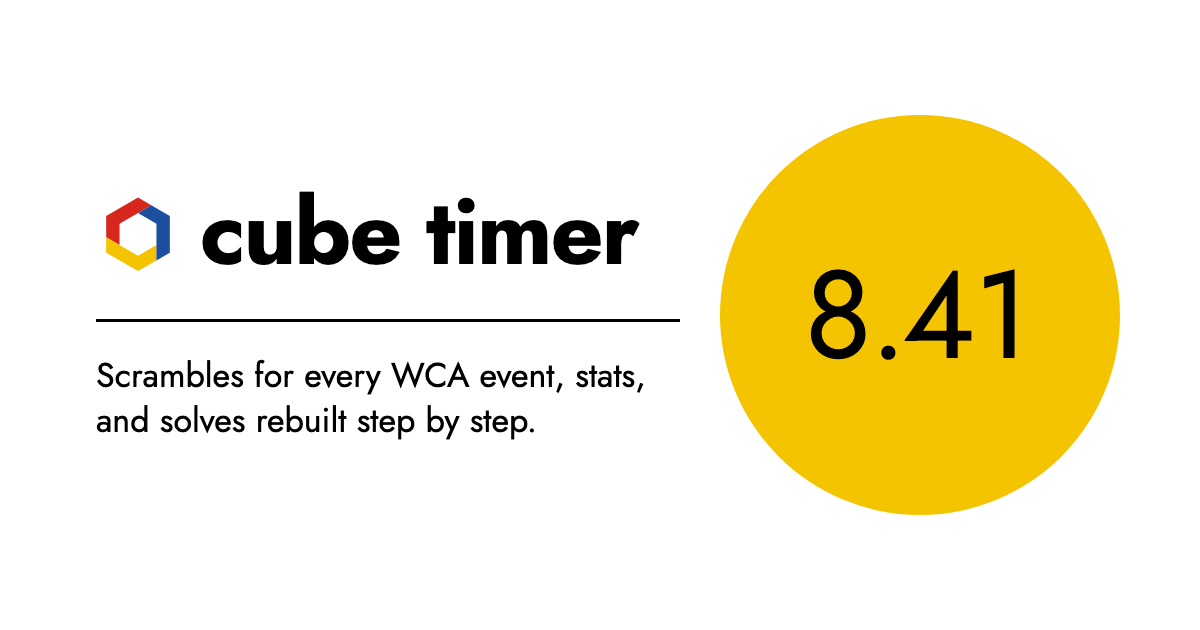
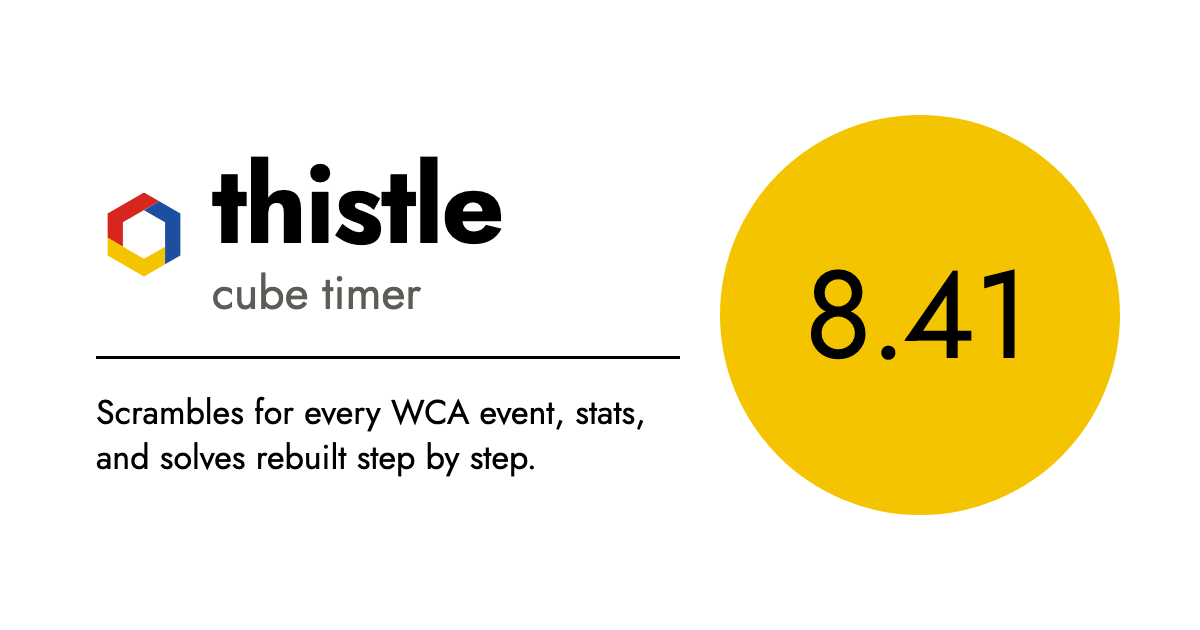
Name the app thistle
After Morwen Thistlethwaite, whose 1981 algorithm first showed any 3x3 position can be
solved in at most 52 moves. "cube timer" stays beside it as a muted subtitle in the header,
page title, share card and link preview. Storage keys are unchanged so saved solves stay.

Changed region(s): [[0.0617, 0.5429, 0.555, 0.754], [0.0925, 0.2413, 0.555, 0.4524], [0.0925, 0.4524, 0.555, 0.5127]]

diff --git a/index.html b/index.html
@@ -10,16 +10,16 @@
       href="https://fonts.googleapis.com/css2?family=Jost:wght@300..800&display=swap"
       rel="stylesheet"
     />
-    <title>cube timer</title>
-    <meta name="description" content="A speedcubing timer that runs in your browser: scrambles for every WCA event, stats, and solves rebuilt step by step." />
+    <title>thistle, a cube timer</title>
+    <meta name="description" content="thistle is a speedcubing timer that runs in your browser: scrambles for every WCA event, stats, and solves rebuilt step by step." />
     <meta property="og:type" content="website" />
     <meta property="og:url" content="https://cube-timer.chong-m2007.workers.dev/" />
-    <meta property="og:title" content="cube timer" />
+    <meta property="og:title" content="thistle, a cube timer" />
     <meta property="og:description" content="Scrambles for every WCA event, stats, and solves rebuilt step by step." />
     <meta property="og:image" content="https://cube-timer.chong-m2007.workers.dev/og.png" />
     <meta property="og:image:width" content="1200" />
     <meta property="og:image:height" content="630" />
-    <meta property="og:image:alt" content="The cube timer logo beside a yellow timer circle reading 8.41." />
+    <meta property="og:image:alt" content="The thistle logo beside a yellow timer circle reading 8.41." />
     <meta name="twitter:card" content="summary_large_image" />
   </head>
   <body>

diff --git a/src/components/SettingsView.tsx b/src/components/SettingsView.tsx
@@ -54,7 +54,7 @@ export function SettingsView() {
     const blob = new Blob([JSON.stringify(state, null, 2)], { type: 'application/json' })
     const a = document.createElement('a')
     a.href = URL.createObjectURL(blob)
-    a.download = `cube-timer-${new Date().toISOString().slice(0, 10)}.json`
+    a.download = `thistle-${new Date().toISOString().slice(0, 10)}.json`
     a.click()
     URL.revokeObjectURL(a.href)
   }
@@ -67,7 +67,7 @@ export function SettingsView() {
       const count = parsed.sessions.reduce((n, x) => n + x.solves.length, 0)
       setImportMessage(`Imported ${parsed.sessions.length} sessions and ${count} solves.`)
     } catch {
-      setImportMessage('That file is not a cube timer export. Choose a .json file made with Export.')
+      setImportMessage('That file is not a thistle export. Choose a .json file made with Export.')
     }
   }
 

diff --git a/src/lib/shareCard.ts b/src/lib/shareCard.ts
@@ -93,7 +93,11 @@ export async function drawCard(data: CardData): Promise<HTMLCanvasElement> {
   ctx.fillStyle = C.ink
   ctx.font = font(600, 34)
   ctx.textAlign = 'left'
-  ctx.fillText('cube timer', PAD + 62, y0 - 1)
+  ctx.fillText('thistle', PAD + 62, y0 - 1)
+  const nameWidth = ctx.measureText('thistle ').width
+  ctx.font = font(400, 34)
+  ctx.fillStyle = C.muted
+  ctx.fillText('cube timer', PAD + 62 + nameWidth, y0 - 1)
   ctx.textAlign = 'right'
   ctx.font = font(400, 30)
   ctx.fillStyle = C.muted
@@ -216,6 +220,6 @@ export function cardText(d: CardData): string {
 
   lines.push('', d.scramble)
   if (d.recon) lines.push('', ...d.recon.lines, d.recon.summary)
-  lines.push('', 'timed with cube timer')
+  lines.push('', 'timed with thistle')
   return lines.join('\n')
 }

diff --git a/src/App.tsx b/src/App.tsx
@@ -36,9 +36,11 @@ function Shell() {
         Skip to content
       </a>
       <header className="topbar chrome">
-        <span className="wordmark" aria-label="cube timer">
+        <span className="wordmark" aria-label="thistle, cube timer">
           <Logo />
-          <span className="wordmark-text">cube timer</span>
+          <span className="wordmark-text">
+            thistle <span className="wordmark-sub">cube timer</span>
+          </span>
         </span>
         <StreakMark />
         <nav className="views" aria-label="Main">

diff --git a/src/index.css b/src/index.css
@@ -242,6 +242,12 @@ kbd {
   letter-spacing: -0.01em;
 }
 
+.wordmark-sub {
+  margin-left: 0.3em;
+  color: var(--muted);
+  font-weight: 400;
+}
+
 .logo {
   display: inline-flex;
   gap: 3px;

diff --git a/DESIGN.md b/DESIGN.md
@@ -1,6 +1,6 @@
 # Design
 
-cube timer follows the Bauhaus: primary colors, three geometric forms, heavy black rules, and one geometric typeface. A speedcube is already a Bauhaus object (a grid of flat primary-colored squares), so the style comes from the subject rather than being pasted on.
+thistle, a cube timer, follows the Bauhaus: primary colors, three geometric forms, heavy black rules, and one geometric typeface. A speedcube is already a Bauhaus object (a grid of flat primary-colored squares), so the style comes from the subject rather than being pasted on.
 
 The rule behind every decision: **form follows function.** Nothing is decoration. Every color, shape and line encodes something, and if it stops meaning something it gets removed.
 
@@ -56,6 +56,10 @@ Green is the one color that isn't a Bauhaus primary. It stays because every cube
 | Triangle | A personal best | Yellow triangle before your best single in the times list and before "New best" notices |
 | Square | A choice or a penalty | Small black square marks the current page and the chosen option; red square marks a +2 or DNF solve |
 
+## Name
+
+**thistle**, after Morwen Thistlethwaite, whose 1981 algorithm first showed any 3x3 position can be solved in at most 52 moves. Cubers who know the algorithm catch the nod; everyone else hears a plain, soft word. It is always set lowercase like the page titles, with "cube timer" beside it in muted regular weight wherever there is room (header, share card, page title), so the name never has to explain itself.
+
 ## Logo
 
 A cube drawn only with three primary ribbons, no outlines. Each ribbon runs along the outer row of two faces, parallel to the cube's edges, and folds around one corner: red around the top-left corner, blue around the top-right, yellow around the bottom. Where two ribbons meet they overlap like a weave, cyclically (red over blue at the top, blue over yellow at the right, yellow over red at the left), so the mark is rotationally symmetric. The middle of the cube is empty. The geometry lives in `src/lib/logoPaths.ts` and is shared by the header (`Logo.tsx`), the share card and `public/favicon.svg`. Change it in one place, then copy the paths into the favicon. Under 420px the header shows the cube without the wordmark.
@@ -93,7 +97,7 @@ Everything else moves on one curve, `--ease` (`cubic-bezier(0.32, 0.72, 0, 1)`),
 - **Menus:** 3px ink border, no shadow. The hovered row turns yellow; the selected row has the square.
 - **Solve panel:** slides in from the right (from the bottom on phones), with the time huge and a heavy rule under it.
 - **Sharing a solve:** the solve panel has a Share section with Text or Image (Text first, since it pastes anywhere).
-  - **Text:** an emoji header (🟨🟥🟦 event: time), ▲ New personal best when it is one, ao5 and ao12, a bar chart of the last 12 solves made of ▁ to █ characters (taller is slower, ✕ for DNF), the scramble, and "timed with cube timer". Shown in a preview with a yellow rule on its left, then Copy text.
+  - **Text:** an emoji header (🟨🟥🟦 event: time), ▲ New personal best when it is one, ao5 and ao12, a bar chart of the last 12 solves made of ▁ to █ characters (taller is slower, ✕ for DNF), the scramble, and "timed with thistle". Shown in a preview with a yellow rule on its left, then Copy text.
   - **Image:** a 1080x1350 (4:5) poster drawn on a canvas, with Copy image and Save image. Same rules as the app: logo and date over a heavy rule, the event name big and left aligned, the time in a yellow circle (red for a DNF) set off-center to the right, the yellow triangle and "Personal best" when it is one, then ao5, ao12 and the solve number in ruled cells, and the scramble along the bottom.
 - **Scramble preview:** for cubes (2x2 to 7x7, OH, BLD) an unfolded net drawn by the app: square stickers with no rounding, set into solid black face blocks, in the WCA scheme (white top, green front) using the app's own red, yellow, blue and green with green lightened to `#29a35a` and a vivid orange `#ff7300` that still sits clearly between red and yellow. Stickers come from `src/lib/cubeState.ts`, a small simulator that applies the scramble. Other puzzles still use cubing.js's 2D view until they get the same treatment.
 - **Typing mode:** the `T` toggle swaps the clock for a text field inside the same circle. The circle turns blue while the field has focus and red when the entry isn't a time. Plain digits use the cubing shorthand (`1234` is 12.34), a trailing `+` adds two seconds, and `DNF` marks a DNF. Inspection is hidden in this mode.

diff --git a/README.md b/README.md
@@ -1,4 +1,6 @@
-# cube timer
+# thistle
+
+A cube timer, named after Morwen Thistlethwaite, whose 1981 algorithm was the first to show any 3x3 position can be solved in at most 52 moves.
 
 A speedcubing timer meant to be what csTimer should feel like: easy to navigate, calm while you solve.
 
